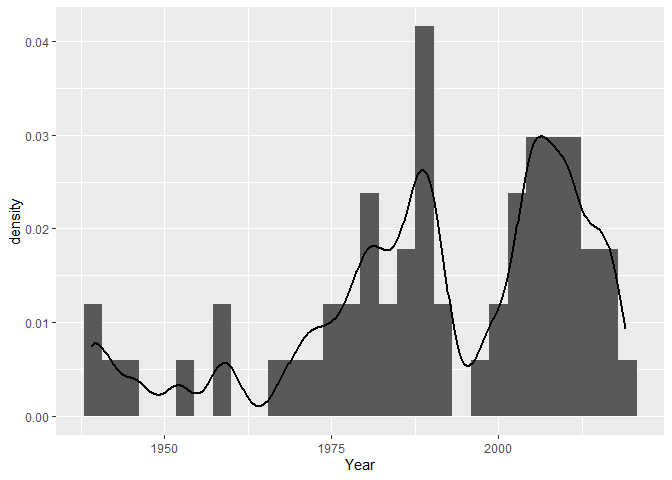
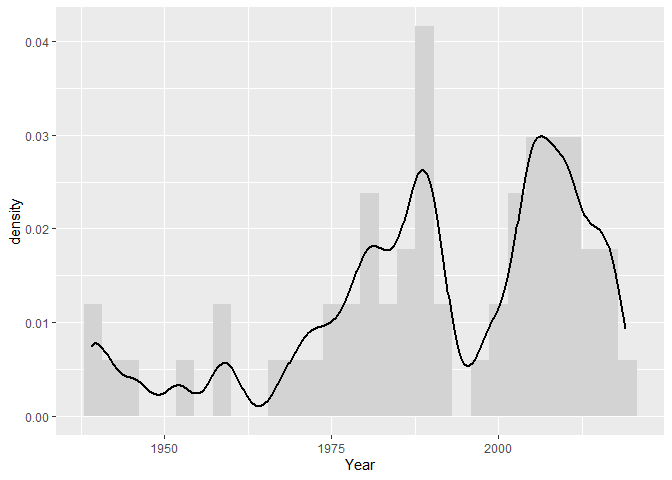
3:40_6_25_2022

Changed region(s): [[0.375, 0.0312, 0.9688, 0.875], [0.25, 0.625, 0.3438, 0.875], [0.125, 0.625, 0.2188, 0.875]]

diff --git a/README.md b/README.md
@@ -926,7 +926,7 @@ g + geom_density(adjust = 0.5, alpha = 0.5)
 # geom_density(adjust = 0.25, alpha = 0.5)
 
 
-ggplot(B, aes(x = Year)) + geom_histogram(aes(y = ..density..)) +
+ggplot(B, aes(x = Year)) + geom_histogram(aes(y = ..density..),fill = "lightgrey") +
 geom_density(adjust = 0.25, alpha = 0.5, size = 1)
 ```
 
